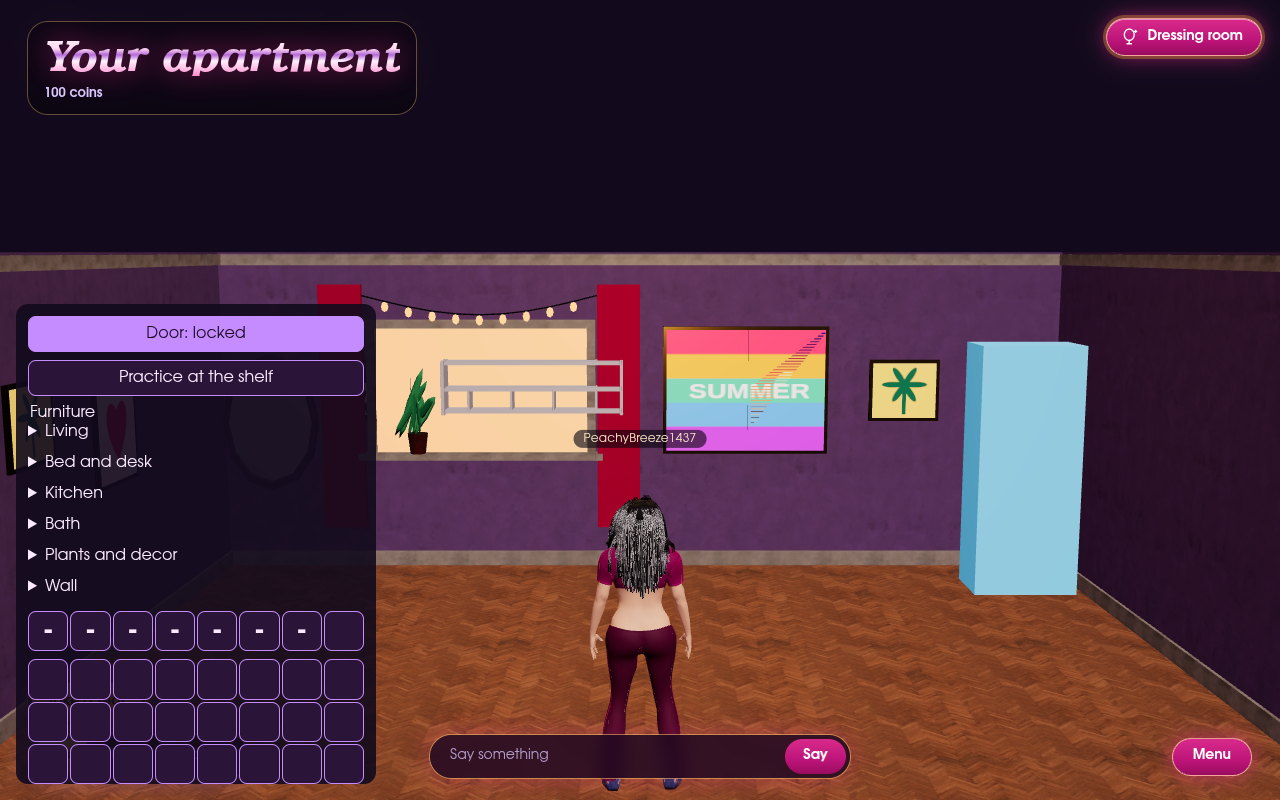
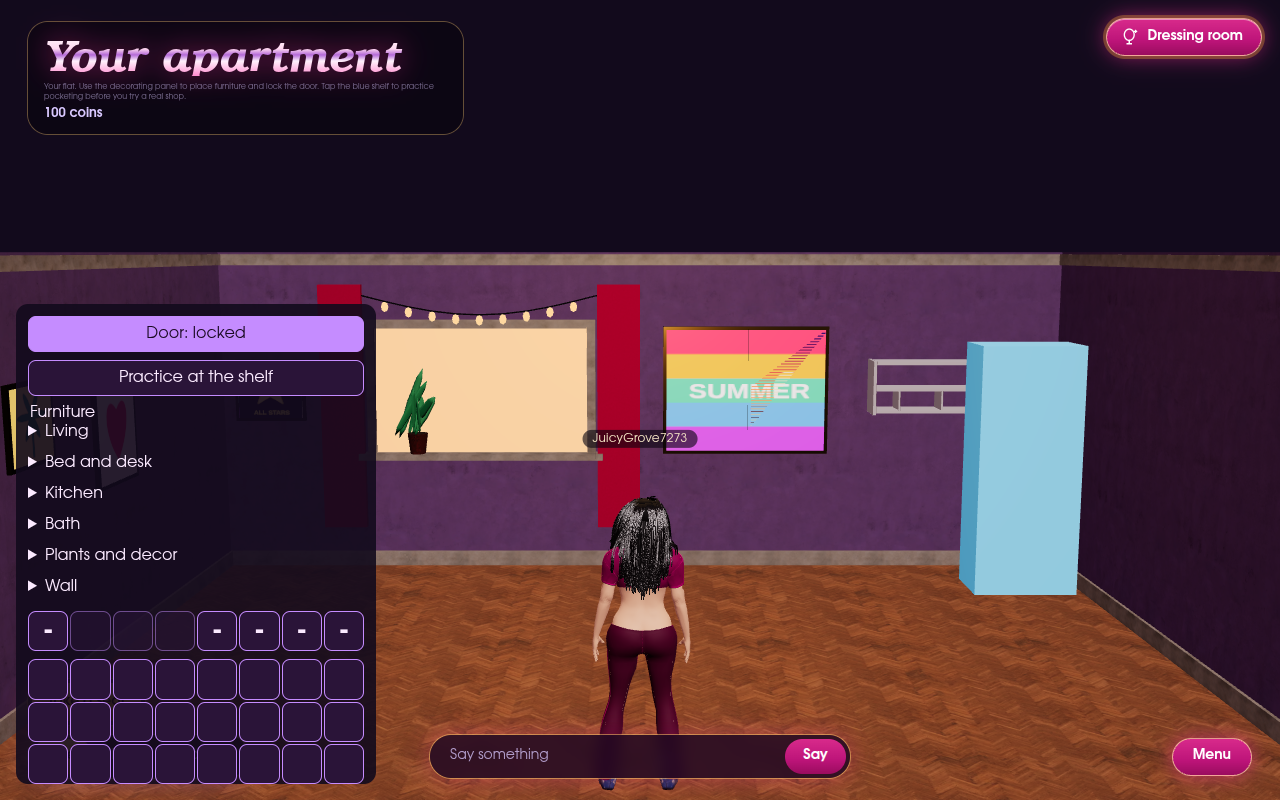
feat(home): TVs show a picture, wall pieces skip the window, new fabric pieces start pink velvet

diff --git a/src/client/rooms/shared/Prop.tsx b/src/client/rooms/shared/Prop.tsx
@@ -54,6 +54,32 @@ export function useFitted(model: string, fit: Fit, dir = "props") {
   return part;
 }
 
+/** Paints `picture` over the screen faces: planar UVs from the faces' own
+ * bounds (the front is +z, x runs right, y up), lit by itself. */
+function showPicture(
+  geometry: THREE.BufferGeometry,
+  material: THREE.MeshStandardMaterial,
+  picture: THREE.Texture,
+) {
+  geometry.computeBoundingBox();
+  const box = geometry.boundingBox ?? new THREE.Box3();
+  const pos = geometry.getAttribute("position");
+  const uv = new THREE.BufferAttribute(new Float32Array(pos.count * 2), 2);
+  for (let i = 0; i < pos.count; i++)
+    uv.setXY(
+      i,
+      (pos.getX(i) - box.min.x) / (box.max.x - box.min.x || 1),
+      (pos.getY(i) - box.min.y) / (box.max.y - box.min.y || 1),
+    );
+  geometry.setAttribute("uv", uv);
+  material.map = picture;
+  material.emissiveMap = picture;
+  material.color.set("#000000");
+  material.emissive.set("#ffffff");
+  material.emissiveIntensity = 0.7;
+  material.needsUpdate = true;
+}
+
 /** One prop, `yaw` turning it about its own center. */
 export function Prop({
   model,
@@ -63,6 +89,7 @@ export function Prop({
   yaw = 0,
   dir,
   tint = 0,
+  screen,
   ...rest
 }: {
   model: string;
@@ -70,15 +97,23 @@ export function Prop({
   dir?: string;
   /** A furniture look (game/home/palette.ts); 0 keeps the model's colors. */
   tint?: number;
+  /** A picture for the model's "screen" material (a TV showing something). */
+  screen?: THREE.Texture;
 } & Fit &
   Omit<ThreeElements["group"], "children">) {
   const fitted = useFittedParts(model, { width, depth, height }, dir);
   const parts = useMemo(() => {
-    if (tint === 0) return fitted;
+    if (tint === 0 && !screen) return fitted;
     // the loaded materials are shared by every copy: recolor clones
     return fitted.map(({ geometry, material }) => {
       const copy = material.clone();
-      if (copy instanceof THREE.MeshStandardMaterial) {
+      if (
+        screen &&
+        copy.name === "screen" &&
+        copy instanceof THREE.MeshStandardMaterial
+      ) {
+        showPicture(geometry, copy, screen);
+      } else if (copy instanceof THREE.MeshStandardMaterial && tint > 0) {
         const hsl = { h: 0, s: 0, l: 0 };
         copy.color.getHSL(hsl);
         const t = tintHsl(hsl, tint);
@@ -86,7 +121,7 @@ export function Prop({
       }
       return { geometry, material: copy };
     });
-  }, [fitted, tint]);
+  }, [fitted, tint, screen]);
   useEffect(
     () => () => {
       if (parts !== fitted) for (const p of parts) p.material.dispose();

diff --git a/src/client/rooms/Apartment.tsx b/src/client/rooms/Apartment.tsx
@@ -8,7 +8,7 @@ import { Suspense, useMemo } from "react";
 import * as THREE from "three";
 import { Batch } from "./shared/batch.ts";
 import { plant, poster, stringLights } from "./shared/details.ts";
-import { GOLD } from "./shared/materials.ts";
+import { GOLD, canvasTex } from "./shared/materials.ts";
 import { usePaintingTexture } from "./gallery/painting.ts";
 import { surface } from "../city/worldTexture.ts";
 import { Prop } from "./shared/Prop.tsx";
@@ -94,6 +94,34 @@ function HungPainting() {
   );
 }
 
+let tvPicture: THREE.Texture | null = null;
+/** What the TVs show: a retro game's sunset level, drawn once. */
+function tvShow(): THREE.Texture {
+  tvPicture ??= canvasTex(256, 192, (g) => {
+    const sky = g.createLinearGradient(0, 0, 0, 192);
+    sky.addColorStop(0, "#2a0f5c");
+    sky.addColorStop(0.55, "#ff5fa8");
+    sky.addColorStop(1, "#ffd27a");
+    g.fillStyle = sky;
+    g.fillRect(0, 0, 256, 192);
+    g.fillStyle = "#fff2b0";
+    g.beginPath();
+    g.arc(180, 96, 30, 0, Math.PI * 2);
+    g.fill();
+    g.fillStyle = "#1b0a33";
+    for (let x = 0; x < 256; x += 32)
+      g.fillRect(x, 140 + ((x / 32) % 3) * 8, 32, 60);
+    g.fillStyle = "#3fe0d0";
+    g.fillRect(40, 118, 14, 22); // the player
+    g.fillStyle = "#ffffff";
+    g.font = "bold 16px monospace";
+    g.fillText("SCORE 004200", 10, 22);
+    g.fillStyle = "rgba(0,0,0,0.18)";
+    for (let y = 0; y < 192; y += 4) g.fillRect(0, y, 256, 2); // scanlines
+  });
+  return tvPicture;
+}
+
 /** The neon sign's tubes, by look. */
 const NEON = ["#ff2f9a", "#3fe0d0", "#ffb02e", "#9b5cff"] as const;
 /** String-light bulb colors, by look. */
@@ -173,6 +201,9 @@ function Piece({ item }: { item: Furniture }) {
         height={height}
         dir="home"
         tint={item.variant ?? 0}
+        screen={
+          item.id === "tv" || item.id === "tv-flat" ? tvShow() : undefined
+        }
         yaw={(item.rotation * Math.PI) / 2}
         position={[x, 0, z]}
       />

diff --git a/src/client/ui/ApartmentPanel.tsx b/src/client/ui/ApartmentPanel.tsx
@@ -8,6 +8,8 @@ import {
   FURNITURE_CATALOG,
   FURNITURE_GROUPS,
   FURNITURE_IDS,
+  WINDOW_COLUMNS,
+  defaultVariant,
   HOME_GRID,
   moveFurniture,
   pieceAt,
@@ -137,7 +139,7 @@ export function ApartmentPanel({
                 aria-pressed={choice === id}
                 onClick={() => {
                   setChoice(choice === id ? null : id);
-                  setVariant_(0);
+                  setVariant_(defaultVariant(id));
                   setPicked(null);
                   setMoving(false);
                   setNote(
@@ -158,8 +160,10 @@ export function ApartmentPanel({
       >
         {Array.from({ length: HOME_GRID.columns }, (_, column) => {
           const index = wallPieceAt(home.furniture, column);
-          const label =
-            index >= 0
+          const inWindow = WINDOW_COLUMNS.includes(column);
+          const label = inWindow
+            ? `Window ${column + 1}`
+            : index >= 0
               ? `${FURNITURE_CATALOG[home.furniture[index].id].name} on the wall at ${column + 1}`
               : `Empty wall ${column + 1}`;
           return (
@@ -169,6 +173,7 @@ export function ApartmentPanel({
               className="home-cell home-wall"
               aria-label={label}
               aria-pressed={index >= 0 && index === picked}
+              disabled={inWindow}
               onClick={() => onWall(column)}
             >
               {index >= 0 ? "▬" : ""}

diff --git a/src/game/home/decor.ts b/src/game/home/decor.ts
@@ -3,6 +3,9 @@
 
 export const HOME_GRID = { columns: 8, rows: 6 } as const;
 
+/** Back-wall columns the window (and its curtains) covers: nothing hangs there. */
+export const WINDOW_COLUMNS: readonly number[] = [1, 2, 3];
+
 export type Rotation = 0 | 1 | 2 | 3;
 
 /** The tabs the decorating panel lists furniture under. */
@@ -56,6 +59,11 @@ const piece = (
 
 // helpers for the entries below
 const tinted = TINT_NAMES;
+
+/** The look a piece starts with: fabric and wood pieces come in pink velvet. */
+export function defaultVariant(id: FurnitureId): number {
+  return FURNITURE_CATALOG[id].variants === TINT_NAMES ? 1 : 0;
+}
 
 export const FURNITURE_CATALOG = {
   sofa: piece("Velvet sofa", 3, 1, 1.0, "Living", tinted),
@@ -146,6 +154,8 @@ function fits(items: readonly Furniture[], skip: number, piece: Furniture) {
     if (r !== 0 || piece.rotation !== 0 || c < 0 || c + w > HOME_GRID.columns) {
       return false;
     }
+    for (let k = c; k < c + w; k++)
+      if (WINDOW_COLUMNS.includes(k)) return false;
     return items.every((other, index) => {
       if (index === skip || !isWall(other)) return true;
       const ow = FURNITURE_CATALOG[other.id].width;

diff --git a/src/game/home/decor.test.ts b/src/game/home/decor.test.ts
@@ -168,11 +168,14 @@ test("wall pieces share the back wall, not the floor", () => {
   const floor = placeFurniture([], "sofa", [0, 0], 0);
   assert.ok(floor);
   // a mirror hangs over the sofa's cells
-  const hung = placeFurniture(floor, "wall-mirror", [1, 0], 0);
+  const hung = placeFurniture(floor, "wall-mirror", [0, 0], 0);
   assert.ok(hung);
   // two wall pieces cannot share a column; wall pieces stay on the wall row
   assert.equal(placeFurniture(hung, "wall-shelf", [0, 0], 0), null);
-  assert.ok(placeFurniture(hung, "wall-shelf", [2, 0], 0));
+  assert.ok(placeFurniture(hung, "wall-shelf", [4, 0], 0));
+  // nothing hangs over the window
+  assert.equal(placeFurniture([], "wall-art", [2, 0], 0), null);
+  assert.equal(placeFurniture([], "wall-shelf", [0, 0], 0), null);
   assert.equal(placeFurniture([], "wall-mirror", [0, 1], 0), null);
   assert.equal(placeFurniture([], "wall-neon", [7, 0], 0), null);
   // the wall piece does not block the floor, and cannot be rotated

diff --git a/tests/client.spec.ts b/tests/client.spec.ts
@@ -2442,14 +2442,14 @@ test("apartment: pick a sofa's look, hang a print on the back wall, and both per
     "Tap the back wall strip to hang it.",
   );
   await page.getByRole("button", { name: "Heart" }).click();
-  await page.getByRole("button", { name: "Empty wall 3" }).click();
+  await page.getByRole("button", { name: "Empty wall 1" }).click();
   await expect(page.getByRole("status").last()).toHaveText(
     "Hung Framed print.",
   );
   await page.reload();
   await page.getByRole("button", { name: "Go to Apartment" }).click();
   await expect(
-    page.getByRole("button", { name: /^Framed print on the wall at 3/ }),
+    page.getByRole("button", { name: /^Framed print on the wall at 1/ }),
   ).toBeVisible();
   await page.getByRole("button", { name: /^Velvet sofa at 1, 2/ }).click();
   await expect(

diff --git a/scripts/screenshots.ts b/scripts/screenshots.ts
@@ -185,9 +185,8 @@ const SHOTS: {
     at("kitchen-sink", 5, 5),
     at("toilet", 7, 5),
     at("wall-art", 0, 0, 2),
-    at("wall-mirror", 1, 0),
-    at("wall-lights", 2, 0, 1),
-    at("wall-neon", 5, 0, 1),
+    at("wall-neon", 4, 0, 1),
+    at("wall-mirror", 6, 0),
   ]),
   ...catalogPages().map((page, i) =>
     homeShot(`apartment-catalog-${i + 1}`, page, "0,7.5,6,0,0.4,0.5"),
@@ -200,11 +199,9 @@ const SHOTS: {
   homeShot(
     "apartment-catalog-wall",
     [
-      at("wall-mirror", 0, 0),
-      at("wall-art", 1, 0, 5),
-      at("wall-shelf", 2, 0),
+      at("wall-art", 0, 0, 5),
       at("wall-art-wide", 4, 0, 4),
-      at("wall-art", 6, 0, 3),
+      at("wall-shelf", 6, 0),
     ],
     "0,3,8,0,1.6,-3",
   ),

diff --git a/art/home/build_home.py b/art/home/build_home.py
@@ -87,13 +87,13 @@ def bounds(ob):
 
 def glow_screen(ob):
     """Kenney's TVs have no screen material: give the dark front faces (the
-    glass) a glowing one so the set reads as switched on."""
+    glass) a dim bluish one; the game paints a picture on it."""
     mat = bpy.data.materials.new("screen")
     mat.use_nodes = True
     bsdf = next(n for n in mat.node_tree.nodes if n.type == "BSDF_PRINCIPLED")
-    bsdf.inputs["Base Color"].default_value = (0.05, 0.35, 0.5, 1)
-    bsdf.inputs["Emission Color"].default_value = (0.2, 0.75, 1.0, 1)
-    bsdf.inputs["Emission Strength"].default_value = 1.2
+    bsdf.inputs["Base Color"].default_value = (0.02, 0.08, 0.12, 1)
+    bsdf.inputs["Emission Color"].default_value = (0.1, 0.4, 0.6, 1)
+    bsdf.inputs["Emission Strength"].default_value = 0.5
     ob.data.materials.append(mat)
     index = len(ob.data.materials) - 1
     for poly in ob.data.polygons:
